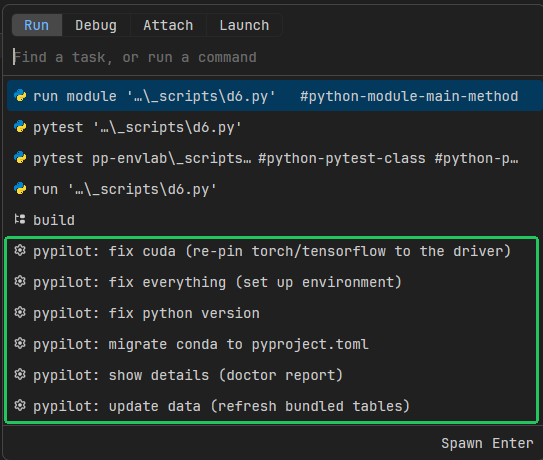
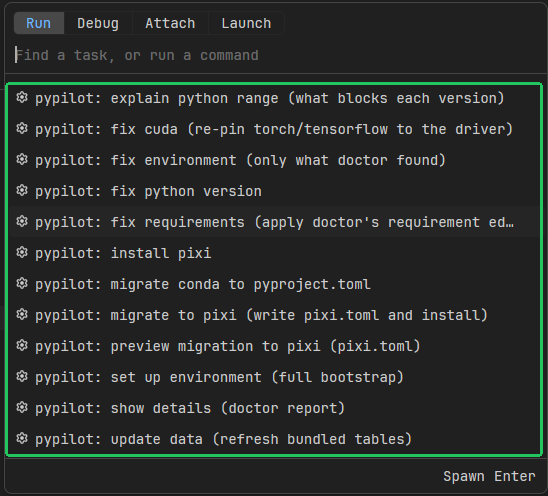
docs(zed): use a task picker screenshot with the current tasks
The earlier screenshot came from the old template, with six tasks and the old fix everything label. This one lists all twelve current tasks.

Changed region(s): [[0.0, 0.0, 1.0, 1.0]]

diff --git a/README.md b/README.md
@@ -183,7 +183,7 @@ To run one, open the command palette again, choose `task: spawn` (or press `alt-
 
 <img src="assets/zed-task-spawn.png" width="622" alt="The command palette with task: spawn selected" />
 
-<img src="assets/zed-task-pick.png" width="543" alt="The task picker with the pypilot tasks highlighted" />
+<img src="assets/zed-task-pick.png" width="548" alt="The task picker with the pypilot tasks highlighted" />
 
 If you already have tasks, paste only PyPilot's entries into your existing list. For a single project, use `zed: open project tasks` (`.zed/tasks.json`) instead. The tasks use a `pypilot` on your `PATH` when there is one, and otherwise the copy the extension downloaded, so they work without installing anything else.
 
